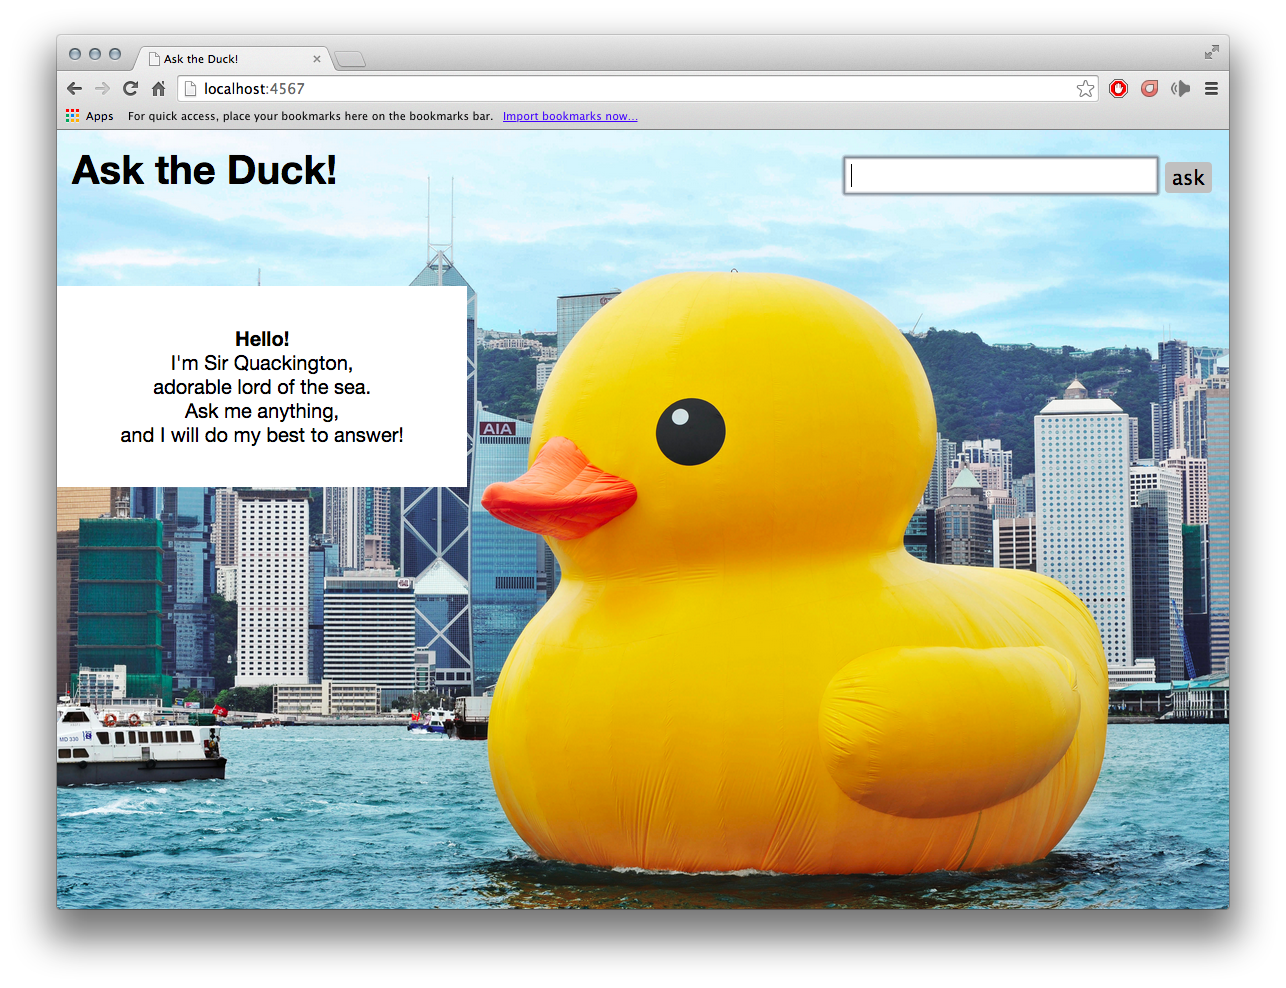
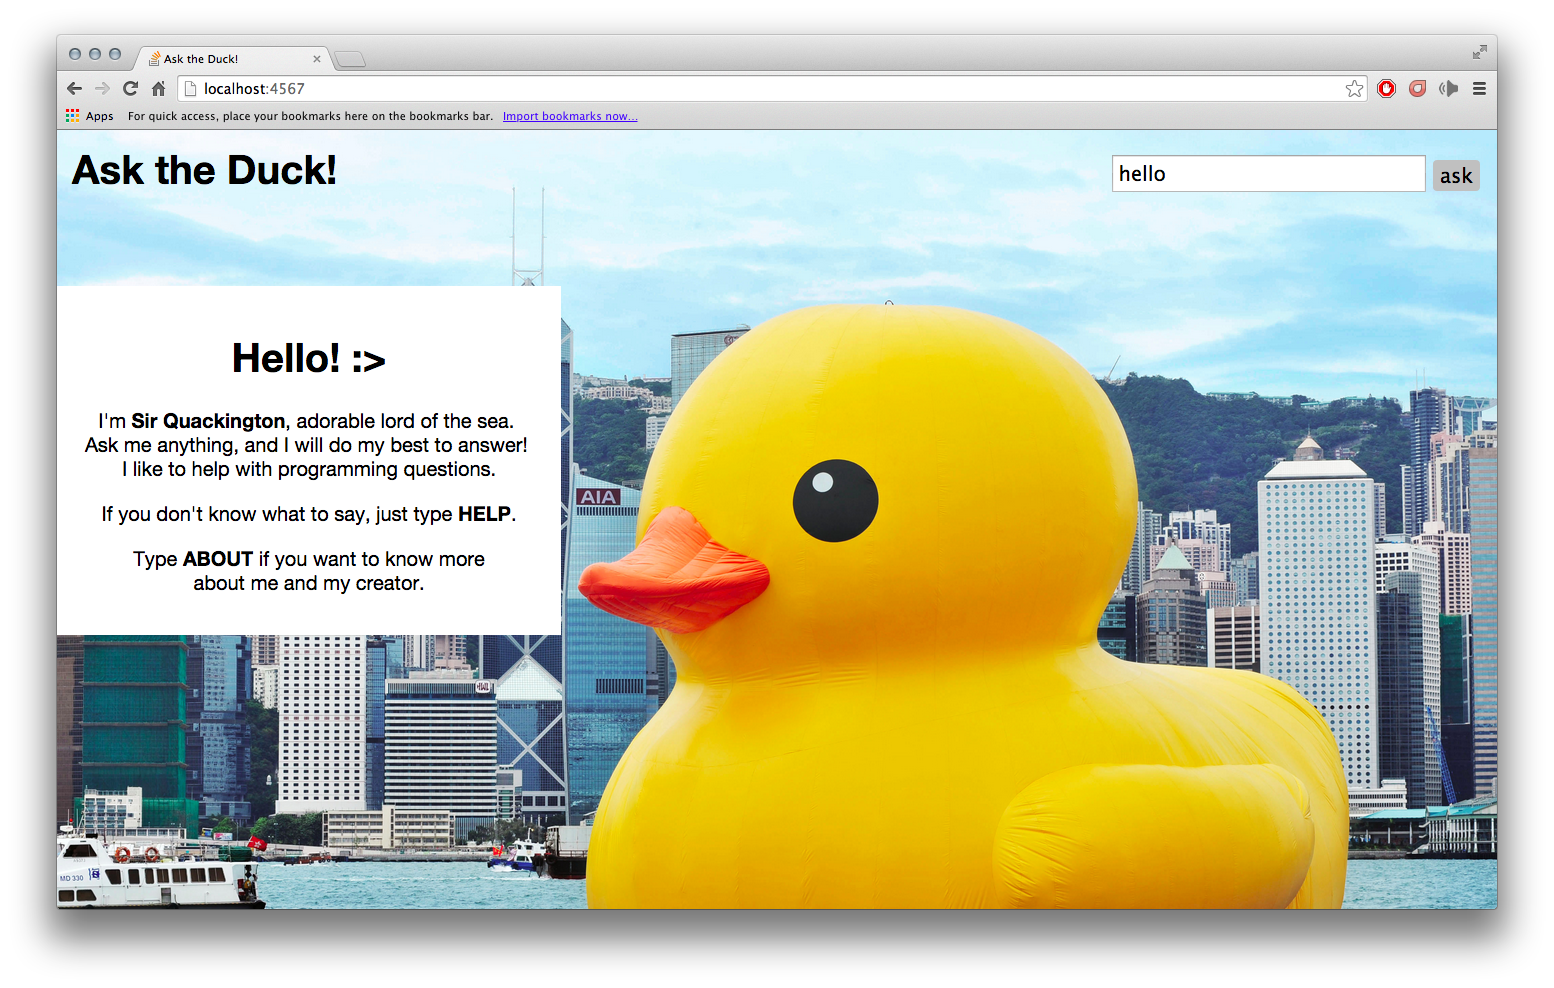
Major refactoring, program is now object-oriented with a duck controller. New features added.

diff --git a/public/styles.css b/public/styles.css
@@ -37,7 +37,7 @@ body {
 
 #ask {
   float:right;
-  padding-top: 10px;
+  padding-top: 8px;
   padding-right: 30px;
 }
 

diff --git a/server.rb b/server.rb
@@ -1,74 +1,221 @@
+# Ask the Duck! v1.5
+# By Andy Wong
+# https://github.com/alacritythief
+
 require 'sinatra'
 
-# MANNERISMS
+# DUCKY AI
 
-def greeting
-  @answer = "<strong>Hello!</strong><br> I'm Sir Quackington,<br>adorable lord of the sea.<br>Ask me anything,<br>
-            and I will do my best to answer!"
-end
+class Duck
+  def self.parse(query)
+    parse_array = (query).downcase.split(" ")
+  end
 
-def random
-  @answer = ["Have you tried turning if off and on again?",
-            "Sorry, I have two left flippers",
-            "I have hollow bones!",
+  def self.nocase_parse(query)
+    parse_array = query.split(" ")
+  end
+
+  def self.query(question)
+    question.shift
+    query = question.join("+")
+  end
+
+  def self.quack(number)
+    if number <= 0 || nil
+      answer = "QUACK"
+    elsif number > 102
+      answer = "#{number}.times { puts \"QUACK \" }<p>You thought I was going to quack
+                <br><strong>that</strong> many times?</p>"
+    else
+      answer = "QUACK " * number
+    end
+  end
+
+  def self.greeting
+    answer = "<h1>Hello! :></h1>
+              <p>I'm <strong>Sir Quackington</strong>, adorable lord of the sea.
+              <br>Ask me anything, and I will do my best to answer!
+                <br>I like to help with programming questions.</p>
+                If you don't know what to say, just type <strong>HELP</strong>.
+                <p>Type <strong>ABOUT</strong> if you want to know more<br>about me and my creator.</p>"
+  end
+
+  def self.help
+    answer = "<p>Okay! Let me help you.</p>
+              <p>First words are always important<br>when talking to a duck like me.</p>
+              <p><strong>GOOGLE</strong> <em>something</em><br>
+              <strong>WIKIPEDIA</strong> <em>something</em><br>
+              <strong>OVERFLOW</strong> <em>programming questions</em><br>
+              <strong>REDDIT</strong> <em>subreddit name</em>
+              <p>You can even ask me to<br><strong>QUACK</strong> <em>X</em> amount of times!</p>
+              <p>Say <strong>HELLO</strong> if you want me to<br>greet you again.</p>
+              <p>Type <strong>ADVANCED</strong><br>if you want to know more options!</p>"
+  end
+
+  def self.random
+    answer = ["Have you tried turning if off and on again?",
+            "Sorry, I have two left flippers.",
+            "We're birds! We have hollow bones!",
             "<strong><em>PLEASE</em></strong> stop abusing the ask button.",
             "Did you forget to add a semicolon?",
             "Maybe you forgot a comma somewhere?",
-            "Maybe you added an 's' to something<br>by mistake in ActiveRecord.",
+            "Maybe you added an 's' to<br>something by mistake in ActiveRecord.",
             "Maybe you should take a walk?",
-            "I didn't quite understand that, but let me tell you, life is great.",
+            "I didn't quite understand that,<br>but let me tell you, life is great.",
             "Take care of yourself.",
-            "Let's put a binding.pry in there"].sample
+            "Let's put a \"binding.pry\" in there.",
+            "Being an omnipotent rubber ducky has its benefits.",
+            "Maybe it's time for some <a href='https://caturday-funtime.herokuapp.com/'>Caturday Funtime!</a>"].sample
+  end
+
+  def self.google(search)
+    if !search[1].nil?
+      statement = search.join(" ").capitalize
+      query = self.query(search)
+      answer = "\"#{statement}?\" <br> <a href='http://www.google.com/#q=#{query}' target='_blank'>Let me google that for you.</a>"
+    else
+      answer ="<p>Remember:<br><strong>GOOGLE</strong> <em>something</em> OR</p>
+      <strong>G</strong> <em>something</em> if you want to jump<br>
+        immedately to Google.</p>"
+    end
+  end
+
+  def self.wikipedia(subject)
+    if !subject[1].nil?
+      subject.shift
+      statement = subject.join(" ").capitalize
+      query = subject.join("+")
+      answer = "\"#{statement}?\" <br> <a href='http://en.wikipedia.org/w/index.php?search=#{query}' target='_blank'>Let me Wikipedia that.</a>"
+    else
+      answer ="<p>Remember:<br><strong>WIKIPEDIA</strong> <em>something</em> OR</p>
+      <strong>W</strong> <em>something</em> if you want to jump<br>
+      immedately to Wikipedia.</p>"
+    end
+  end
+
+  def self.overflow(question)
+    if !question[1].nil?
+      question.shift
+      statement = question.join(" ").capitalize
+      query = self.query(question)
+      answer = "\"#{statement}?\"<br><a href='http://stackoverflow.com/search?q=#{query}' target='_blank'>Let's look at Stack Overflow.</a>"
+    else
+      answer ="<p>Remember:<br><strong>OVERFLOW</strong> <em>programming questions</em> OR</p>
+      <strong>O</strong> <em>something</em> if you want to jump<br>
+      immedately to StackOverflow.</p>"
+    end
+  end
+
+  def self.reddit(subreddit)
+    if !subreddit[1].nil?
+      subreddit.shift
+      statement = subreddit.join(" ")
+      query = self.query(subreddit)
+      answer = "\"#{statement}?\"<br><a href='http://www.reddit.com/search?q=#{query}' target='_blank'>Let's look at Reddit.</a>"
+    else
+      answer ="<p>Remember:<br><strong>REDDIT</strong> <em>subreddit</em> OR</p>
+      <strong>R</strong> <em>subreddit</em> if you want to jump<br>
+      immedately to that Sub-Reddit.</p>"
+    end
+  end
+
+  def self.advanced
+    answer = "<p>Some fancy stuff for Pro users:</p>
+    <p><strong>G, W, O,</strong> and <strong>R</strong> directly bring you to<br>
+    Google, Wikipedia, StackOverflow, and Reddit.
+    <p>Typing <strong>RUBY</strong> provides a link to the Ruby docs.</p>
+    <p>Typing <strong>WHY</strong> tells you a bit<br>about \"Rubber duck debugging\"."
+  end
+
+  def self.about
+    answer = "<p><strong>Hey there!</strong></p>
+              <p>I was created by a human named<br> <a href=\"http://alacritystudios.com/\">Andy Wong</a>,
+              who is a Ruby on Rails<br>apprentice at <a href=\"http://www.launchacademy.com/\">Launch Academy</a>.</p>
+              <p>My <a href=\"https://github.com/alacritythief/ask-the-duck\">code</a> backend is made with<br>Ruby and <a href=\"http://www.sinatrarb.com/\">Sinatra</a>,
+              and everything<br>was made in one day for the<br>
+              \"Ship-It Saturday\" hackathon there.</p>
+              <p>Credit goes to <a href=\"http://en.wikipedia.org/wiki/Rubber_Duck_(sculpture)\">Florentijn Hofman</a> for the<br>
+              hansome duck you see in front of you.</p>"
+  end
+end
+
+# HELPERS
+
+helpers do
+  def partial (template, locals = {})
+    erb(template, :layout => false, :locals => locals)
+  end
 end
 
 # ROUTES
 
 get '/' do
-  greeting
+  @answer = Duck.greeting
   erb :index
 end
 
 post'/' do
-  @question = (params[:question]).downcase.split(" ")
+  @question = Duck.parse(params[:question])
+  @case_question = Duck.nocase_parse(params[:question])
+
   if @question.empty?
-    random
+    @answer = Duck.random
   elsif @question.first.include? "hello"
-    greeting
+    @answer = Duck.greeting
   elsif @question.first.include? "quack"
     @number = @question[1].to_i
-    if @number <= 0
-      @number = 1
-      @answer = "QUACK " * @number
-    elsif @number > 100
-      @answer = "9001.times { puts \"QUACK \" }"
-    else
-      @answer = "QUACK " * @number
-    end
+    @answer = Duck.quack(@number)
   elsif @question.first.include? "ruby"
     @answer = "Have you checked the <a href='http://www.ruby-doc.org/core-2.1.3/' target='_blank'>Ruby</a> docs?"
   elsif @question.first.include? "google"
-    @question.shift
-    @statement = @question.join(" ")
-    @query = @question.join("+")
-    @answer = "#{@statement}? <br> <a href='http://www.google.com/#q=#{@query}' target='_blank'>Let me google that for you.</a>"
-  elsif @question.first.include? "overflow"
-    @question.shift
-    @statement = @question.join(" ")
-    @query = @question.join("+")
-    @answer = "#{@statement}? <br> <a href='http://stackoverflow.com/search?q=#{@query}' target='_blank'>Let's look at Stack Overflow.</a>"
-  elsif @question.first.include? "help"
-    @answer = "<p>Okay! Let me help you.</p>
-              <p>First words are always important<br>when talking to a duck.</p>
-              <p><strong>WIKIPEDIA</strong> <em>something</em><br><strong>GOOGLE</strong> <em>something</em><br><strong>OVERFLOW</strong> <em>programming questions</em><br><br>You can even ask me to<br><strong>QUACK</strong> <em>X</em> amount of times!</p>
-              <p>I will know even more soon!</p>"
+    @answer = Duck.google(@question)
+  elsif @question.first == "g"
+    if !@question[2].nil?
+      @query = Duck.query(@question)
+      redirect "http://www.google.com/#q=#{@query}"
+    else
+      redirect "http://www.google.com/"
+    end
   elsif @question.first.include? "wikipedia"
-    @question.shift
-    @statement = @question.join(" ")
-    @query = @question.join("+")
-    @answer = "#{@statement}? <br> <a href='http://en.wikipedia.org/w/index.php?search=#{@query}' target='_blank'>Let me Wikipedia that.</a>"
+    @answer = Duck.wikipedia(@question)
+  elsif @question.first == "w"
+    if !@question[2].nil?
+      @query = Duck.query(@question)
+      redirect "http://en.wikipedia.org/w/index.php?search=#{@query}"
+    else
+      redirect "http://en.wikipedia.org/"
+    end
+  elsif @question.first.include? "overflow"
+    @answer = Duck.overflow(@question)
+  elsif @question.first == "o"
+    if !@question[2].nil?
+      @query = Duck.query(@question)
+      redirect "http://stackoverflow.com/search?q=#{@query}"
+    else
+      redirect "http://stackoverflow.com/"
+    end
+  elsif @question.first.include? "reddit" || @question.first == r
+    @answer = Duck.reddit(@case_question)
+  elsif @question.first == "r"
+    if !@question[2].nil?
+      @query = Duck.query(@case_question)
+      redirect "http://www.reddit.com/r/#{@query}"
+    else
+      redirect "http://www.reddit.com/"
+    end
+  elsif @question.first.include? "help"
+    @answer = Duck.help
+  elsif @question.first.include? "advanced"
+    @answer = Duck.advanced
+  elsif @question.first.include? "why"
+    redirect "http://en.wikipedia.org/wiki/Rubber_duck_debugging"
+  elsif @question.first.include? "about"
+    @answer = Duck.about
   else
-    random
+    @answer = Duck.random
   end
 
   erb :index
 end
+
+
